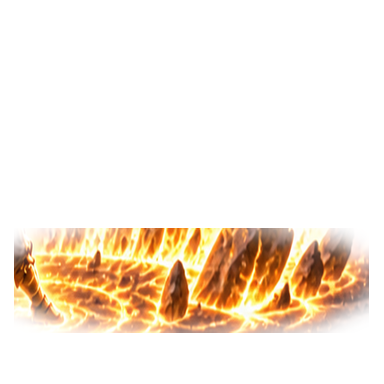
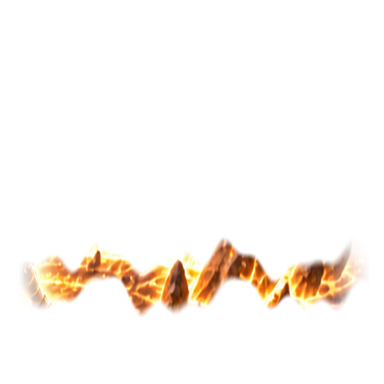
FIST05 R2: organic fissure alpha and pointed molten rock silhouette after native Godot visual QA

Changed region(s): [[0.0312, 0.5938, 0.9688, 0.875]]

diff --git a/docs/operations/VFX_FIST05_DIA_MACH_LIEN_CHAN_ART_BRIEF_20261115.md b/docs/operations/VFX_FIST05_DIA_MACH_LIEN_CHAN_ART_BRIEF_20261115.md
@@ -14,3 +14,7 @@ Reproducible source `tools/vfx/generate_fist05_dia_mach.py` composes **40 RGBA f
 Cast 0-.45 ground qi at caster; .45-1.01 cracked fault propagates ON THE GROUND towards a circle group; 1.01-1.72 independently posed rocky eruption behind targets + bounded flashes on **at most three** preview enemies; 1.72-2.56 rocks/dust fade, 2.56-3.0 clear. Godot fixed-clock 1280x720 185 frames, timecode PNG, GIF, MP4, exact SHA contract. LAB targets wander slightly: **preview staging, not pathfinding/Combat V2 tracking**. Only a separately confirmed receipt can later authorize real hit reactions. Check rocks do not obscure the enemies at 1x and avoid an orange flat UI disk.
 
 Files: `res://labs/combat_lab/fist05/dia_mach_lien_chan.tscn`, its script, `res://tests/labs/combat_lab/vfx_fist05_contract_test.gd`; CI `.github/workflows/vfx-fist-05-dia-mach-lien-chan.yml`. No rig, Codex, branch, merge, other school assets or gameplay edits; V6.3 OFF, PVE HOLD. **Technical QA PENDING UNTIL EXACT-SHA CI completes; OWNER_VISUAL_PENDING.** Final 60fps movie is NOT physical Android FPS.
+
+## V2 — Native footage art defect / alpha-source fix
+R1 tested source SHA `680f8b9810539b2e68ba40b6374fe7af787ca3ae`, [Godot Actions #43683204020](https://github.com/vuanhtuan161094-byte/TongMonBaDao/actions/runs/43683204020) STRICT IMPORT / PARSE / FOCUSED / 1280×720 MP4 **PASS technical**. Visual 1× inspection at 0.75s and 1.13s: fault image tiled into a broad *rectangular carpet*; one large stone clipped flat across its upper silhouette. **V1 ART FAIL** despite QA success.
[1 lines of base64/hex data omitted]
